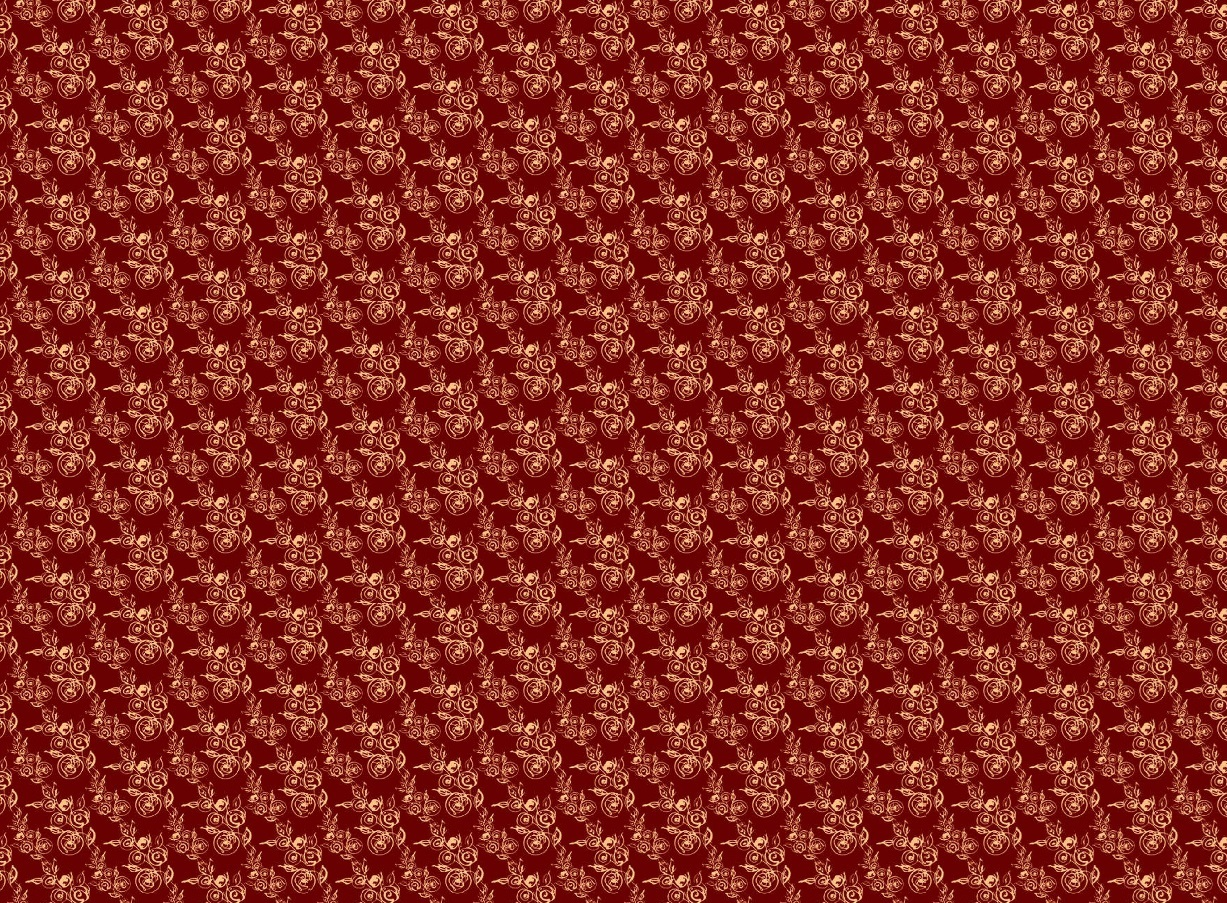
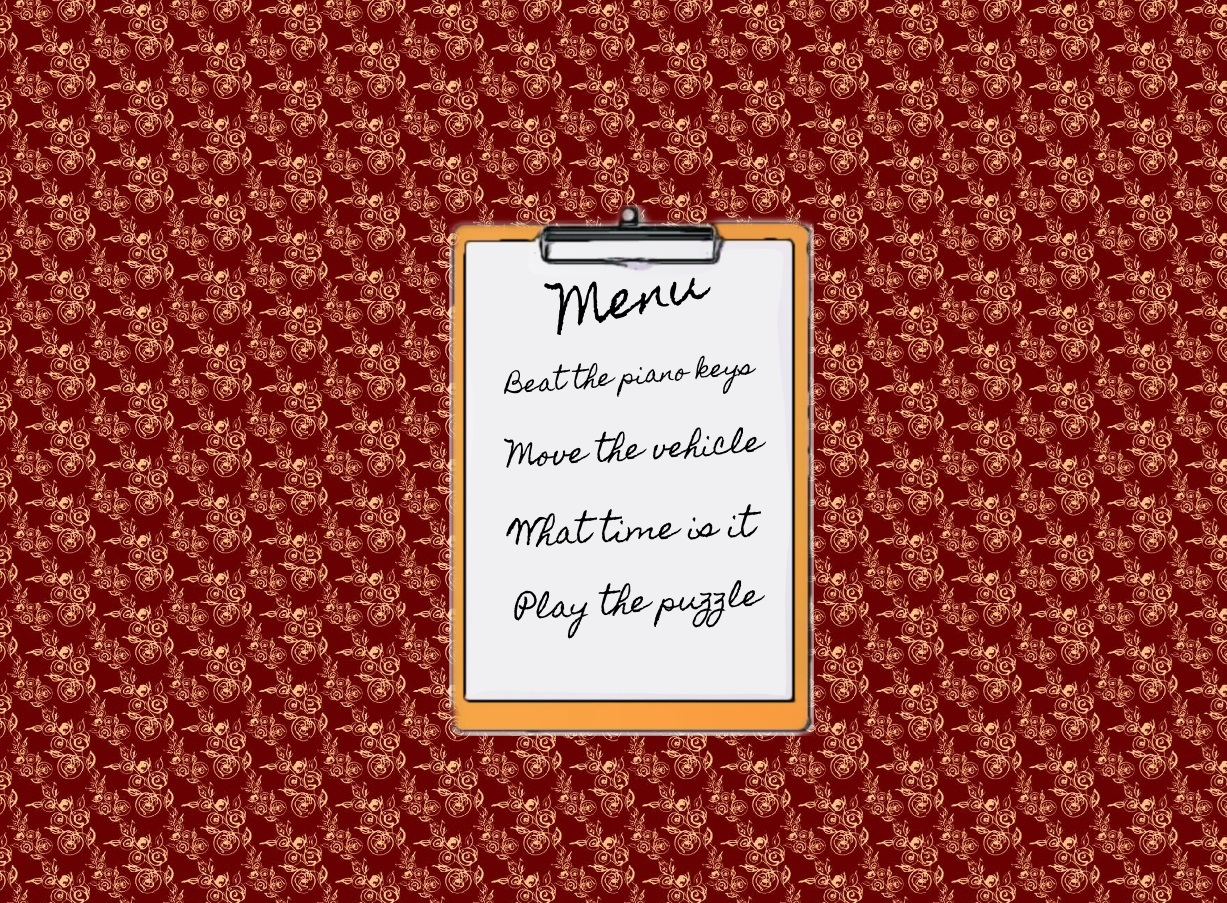
02_the_bar.js '< >' 버튼 부분 삭제, leftwall 메뉴판 사진 수정

Changed region(s): [[0.3407, 0.2171, 0.6813, 0.8372]]

diff --git a/js/_02_the_bar.js b/js/_02_the_bar.js
@@ -1,8 +1,8 @@
 // 클릭 이벤트 관련 변수 초기화
-let buttonDisplayed = false; 
-let secondImageDisplayed = false; 
+let buttonDisplayed = false;
+let secondImageDisplayed = false;
 let thirdImageDisplayed = false;
-let otherAreaClicked = false; 
+let otherAreaClicked = false;
 
 const liquorClickCounts = {
     '봄베이따르기': 0,
@@ -47,17 +47,19 @@ function addClickableAreas() {
         document.getElementById('game-container').appendChild(overlay);
 
         // 마우스 포인터를 변경하기 위한 이벤트 리스너 추가
-        overlay.addEventListener('mouseenter', function() {
+        overlay.addEventListener('mouseenter', function () {
             document.body.style.cursor = 'pointer';
         });
-        overlay.addEventListener('mouseleave', function() {
+        overlay.addEventListener('mouseleave', function () {
             document.body.style.cursor = 'default';
         });
 
         // 클릭 이벤트 리스너 추가
-        overlay.addEventListener('click', function(event) {
+        overlay.addEventListener('click', function (event) {
             event.stopPropagation(); // 이벤트 전파를 막아 오버레이 뒤의 요소가 클릭되지 않도록 함
             handleOverlayClick(event, area);
+            document.getElementById("left-button").style.display = "none";
+            document.getElementById("right-button").style.display = "none";
         });
     });
 }
@@ -78,15 +80,15 @@ function addLiquorAreas() {
         document.getElementById('game-container').appendChild(overlay);
 
         // 마우스 포인터를 변경하기 위한 이벤트 리스너 추가
-        overlay.addEventListener('mouseenter', function() {
+        overlay.addEventListener('mouseenter', function () {
             document.body.style.cursor = 'pointer';
         });
-        overlay.addEventListener('mouseleave', function() {
+        overlay.addEventListener('mouseleave', function () {
             document.body.style.cursor = 'default';
         });
 
         // 클릭 이벤트 리스너 추가
-        overlay.addEventListener('click', function(event) {
+        overlay.addEventListener('click', function (event) {
             event.stopPropagation(); // 이벤트 전파를 막아 오버레이 뒤의 요소가 클릭되지 않도록 함
             handleLiquorClick(event, area);
         });
@@ -110,18 +112,21 @@ function addCloseButton() {
     closeButton.className = "close-button";
     document.getElementById('game-container').appendChild(closeButton);
 
-    buttonDisplayed = true; 
+    buttonDisplayed = true;
 
-    closeButton.addEventListener('click', function() {
+    closeButton.addEventListener('click', function () {
         imageElement.src = '../image/images/barpage/더호스텔바.PNG';
         closeButton.remove();
         buttonDisplayed = false;
-        otherAreaClicked = false; 
+        otherAreaClicked = false;
         secondImageDisplayed = false;
         thirdImageDisplayed = false;
         resetLiquorClickCounts();
         removeClickableAreas(); // 클릭 가능한 모든 영역 제거
         addClickableAreas(); // 닫기 버튼 클릭 시 영역 다시 추가
+        document.getElementById("left-button").style.display = ""; // 왼쪽오른쪽 버튼숨기기
+        document.getElementById("right-button").style.display = "";
+
     });
 }
 
@@ -132,30 +137,30 @@ function handleOverlayClick(event, area) {
 
     function checkAreaClick(area) {
         return clickX >= area.x && clickX <= (area.x + area.width) &&
-               clickY >= area.y && clickY <= (area.y + area.height);
+            clickY >= area.y && clickY <= (area.y + area.height);
     }
-    
+
     //--------------------------//
     // 남자친구 영역 클릭 시 동작 //
     //--------------------------//
     if (area.id === 'boyfriend-area' && checkAreaClick(area) && !buttonDisplayed) {
         imageElement.src = '../image/images/barpage/내버려둬.PNG';
-        otherAreaClicked = true; 
+        otherAreaClicked = true;
         addCloseButton();
         removeClickableAreas(); // 영역 제거
         addPaperArea(); // 남자친구 클릭 시 추가 영역 생성
-    } 
+    }
     // 웨이터 영역 클릭 시 동작
     else if (area.id === 'waiter-area' && checkAreaClick(area) && !buttonDisplayed) {
         imageElement.src = '../image/images/barpage/말하는웨이터_수정.PNG';
-        otherAreaClicked = true; 
+        otherAreaClicked = true;
         addCloseButton();
         removeClickableAreas(); // 영역 제거
-    } 
+    }
     // 술장 영역 클릭 시 동작
     else if (area.id === 'liquor-area' && checkAreaClick(area) && !secondImageDisplayed && !otherAreaClicked) {
         imageElement.src = '../image/images/barpage/술있는곳확대.png';
-        secondImageDisplayed = true; 
+        secondImageDisplayed = true;
         addCloseButton();
         removeClickableAreas(); // 영역 제거
         addLiquorAreas(); // 두 번째 이미지 클릭 시 주류 영역 추가
@@ -169,20 +174,20 @@ function handleLiquorClick(event, area) {
 
     function checkAreaClick(area) {
         return clickX >= area.x && clickX <= (area.x + area.width) &&
-               clickY >= area.y && clickY <= (area.y + area.height);
+            clickY >= area.y && clickY <= (area.y + area.height);
     }
 
     if (secondImageDisplayed && !thirdImageDisplayed && checkAreaClick(area)) {
         imageElement.src = area.image;
         liquorClickCounts[area.key] += 1;
-        thirdImageDisplayed = true; 
+        thirdImageDisplayed = true;
         document.getElementById('close-button').style.display = 'none';
 
         // 1초 후에 두 번째 이미지로 돌아가기
-        setTimeout(function() {
+        setTimeout(function () {
             checkLiquorClickCombination();
             imageElement.src = '../image/images/barpage/술있는곳확대.png';
-            thirdImageDisplayed = false; 
+            thirdImageDisplayed = false;
             document.getElementById('close-button').style.display = 'block';
         }, 1000);
     }
@@ -207,15 +212,15 @@ function addPaperArea() {
     document.getElementById('game-container').appendChild(overlay);
 
     // 마우스 포인터를 변경하기 위한 이벤트 리스너 추가
-    overlay.addEventListener('mouseenter', function() {
+    overlay.addEventListener('mouseenter', function () {
         document.body.style.cursor = 'pointer';
     });
-    overlay.addEventListener('mouseleave', function() {
+    overlay.addEventListener('mouseleave', function () {
         document.body.style.cursor = 'default';
     });
 
     // 클릭 이벤트 리스너 추가
-    overlay.addEventListener('click', function(event) {
+    overlay.addEventListener('click', function (event) {
         event.stopPropagation(); // 이벤트 전파를 막아 오버레이 뒤의 요소가 클릭되지 않도록 함
         addWordleArea();
     });
@@ -224,7 +229,7 @@ function addPaperArea() {
 // 월들 영역 클릭 이벤트를 처리하는 함수 //
 // ---------------------------------- //
 function addWordleArea() {
-    const wordleArea = { x: 608 , y: 334, width: 231, height: 248, href: '../game/wordle/wordle.html'};
+    const wordleArea = { x: 608, y: 334, width: 231, height: 248, href: '../game/wordle/wordle.html' };
 
     const overlay = document.createElement('div');
     overlay.classList.add('wordle-area');
@@ -238,19 +243,19 @@ function addWordleArea() {
 
     document.getElementById('game-container').appendChild(overlay);
 
-    overlay.addEventListener('mouseenter', function() {
+    overlay.addEventListener('mouseenter', function () {
         document.body.style.cursor = 'pointer';
     });
-    overlay.addEventListener('mouseleave', function() {
+    overlay.addEventListener('mouseleave', function () {
         document.body.style.cursor = 'default';
     });
 
-    otherAreaClicked = true; 
+    otherAreaClicked = true;
     imageElement.src = '../image/images/barpage/신문.png';
     removeClickableAreas(); // 영역 제거
 
     // 클릭 이벤트 리스너 추가
-    overlay.addEventListener('click', function(event) {
+    overlay.addEventListener('click', function (event) {
         event.stopPropagation(); // 이벤트 전파를 막아 오버레이 뒤의 요소가 클릭되지 않도록 함
         window.location.href = '../game/wordle/wordle.html';
     });
@@ -265,9 +270,9 @@ function checkLiquorClickCombination() {
         liquorClickCounts['봄베이따르기'] === 0 &&
         liquorClickCounts['럼따르기'] === 0 &&
         liquorClickCounts['달모어따르기'] === 0) {
-        setTimeout(function() {
+        setTimeout(function () {
             imageElement.src = '../image/images/barpage/잔을채우다1.png';
-            setTimeout(function() {
+            setTimeout(function () {
                 imageElement.src = '../image/images/barpage/잔완성.png';
                 thirdImageDisplayed = false;
                 document.getElementById('close-button').style.display = 'block';
